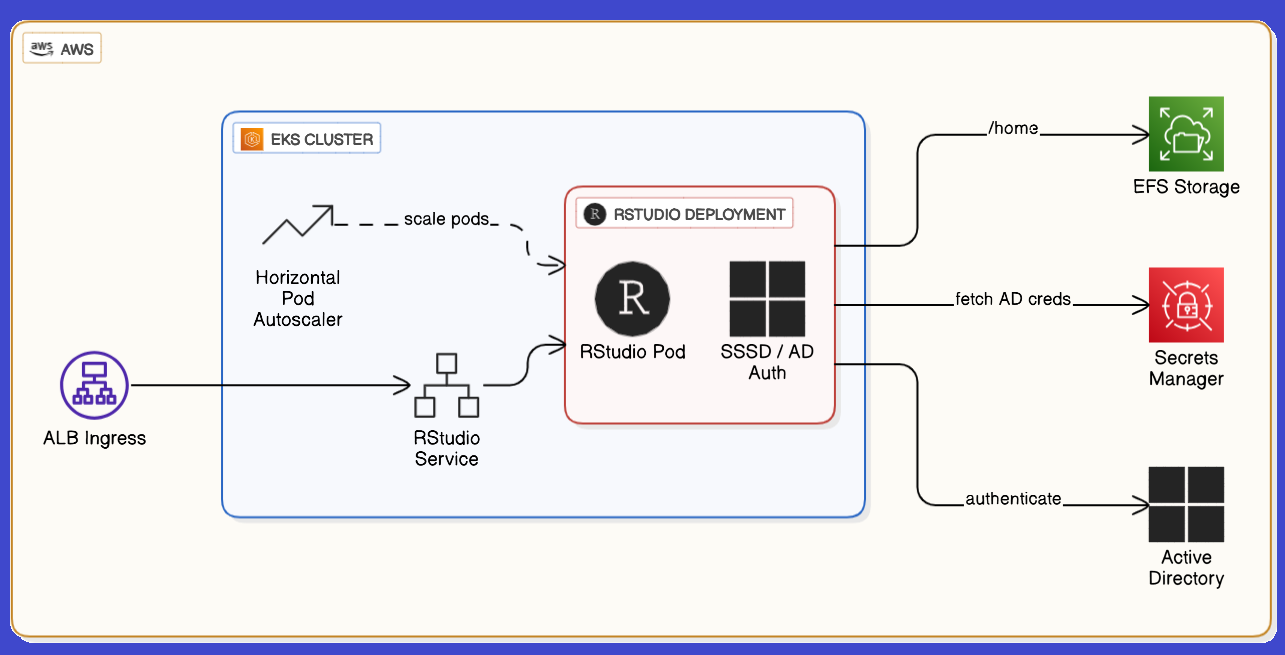
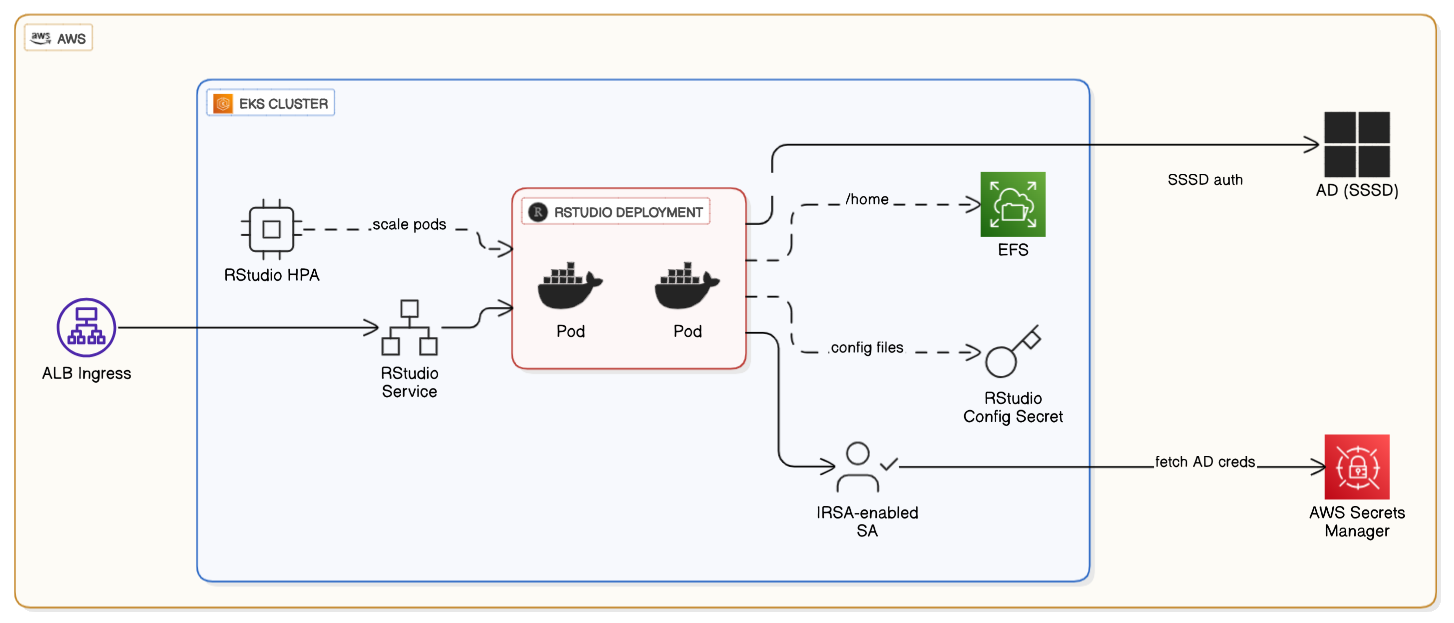
start on documentation

Changed region(s): [[0.0, 0.0, 1.0, 1.0], [0.1245, 0.122, 0.7471, 0.244]]

diff --git a/README.md b/README.md
@@ -1,0 +1,33 @@
+# AWS RStudio Cluster on EKS with Active Directory and EFS Integration
+
+This project builds on both the **AWS Mini Active Directory** and **RStudio on AWS** labs to deliver a **cloud-native, domain-joined RStudio Server cluster** running on **Amazon Elastic Kubernetes Service (EKS)**.  
+
+It uses **Terraform**, **Docker**, and **Kubernetes manifests** to create a fully automated, scalable analytics environment that integrates with **Active Directory authentication** and **Amazon Elastic File System (EFS)** for persistent, shared storage.
+
+![RStudio K8S Architecture](rstudio.png)
+
+Unlike VM-based Auto Scaling Groups, this solution deploys **containerized RStudio Server pods** on EKS that dynamically join the domain and mount **EFS volumes** for user home directories and shared R libraries.  
+
+
+![RStudio K8S Architecture](k8s-diagram.png)
+
+Key capabilities demonstrated:
+
+1. **EKS-Hosted RStudio Cluster** – RStudio Server (Open Source Edition) runs as containers on an Amazon EKS cluster for elasticity, resilience, and maintainability.  
+2. **Active Directory Authentication** – Domain-joined pods authenticate through a Samba-based AD, providing centralized user management.  
+3. **EFS-Backed Persistent Storage** – User home directories and shared R package libraries are stored on EFS, ensuring cross-pod consistency and reproducible environments.  
+4. **Application Load Balancer (ALB) Ingress** – Provides external HTTPS access with sticky sessions, TLS termination, and DNS integration.  
+5. **End-to-End IaC Workflow** – Terraform, Packer, and Helm combine to deliver a modular, reproducible deployment pipeline.
+
+Together, these components form a scalable, domain-aware analytics platform where RStudio users share packages, data, and authentication seamlessly across a fully managed Kubernetes environment.
+
+![AWS Diagam](aws-rstudio-eks.png)
+
+## Prerequisites
+
+* [An AWS Account](https://aws.amazon.com/console/)
+* [Install AWS CLI](https://docs.aws.amazon.com/cli/latest/userguide/getting-started-install.html) 
+* [Install Latest Terraform](https://developer.hashicorp.com/terraform/install)
+* [Install Docker](https://docs.docker.com/engine/install/)
+
+If this is your first time watching our content, we recommend starting with this video: [AWS + Terraform: Easy Setup](https://youtu.be/BCMQo0CB9wk). It provides a step-by-step guide to properly configure Terraform and the AWS CLI.
